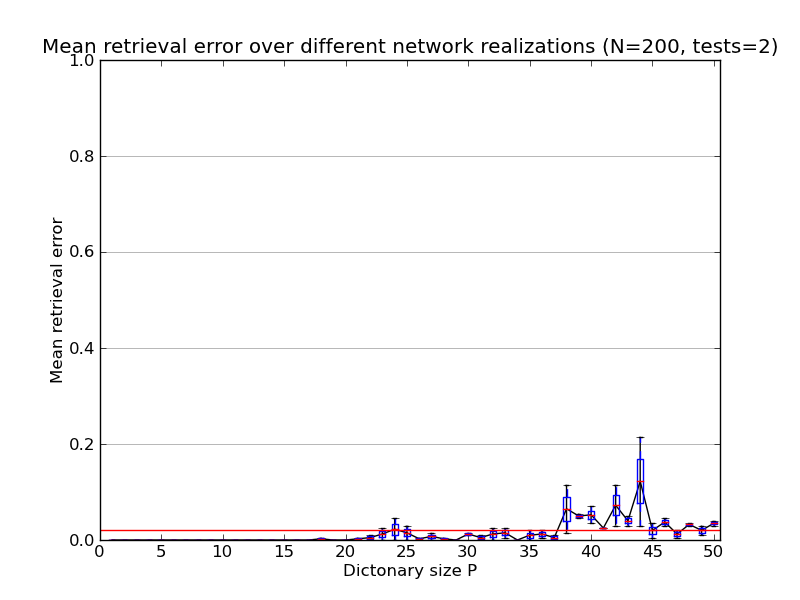
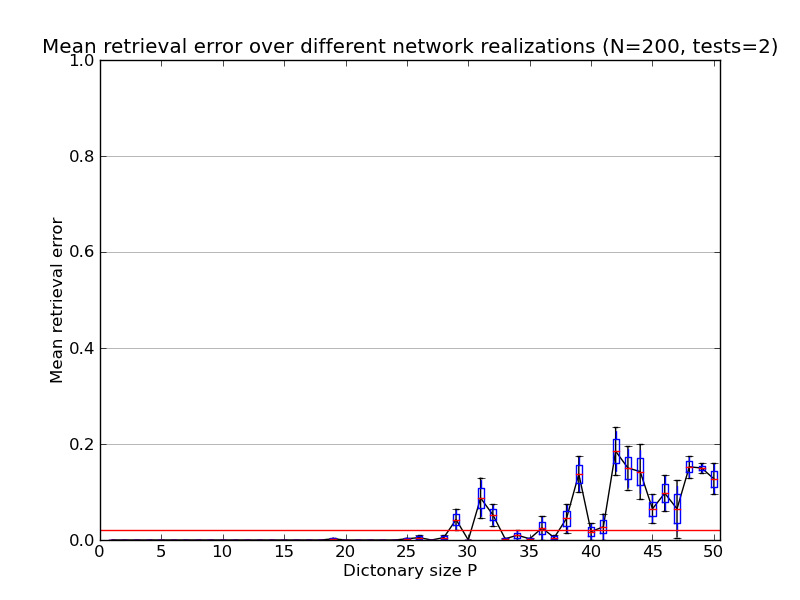
enjoy

Changed region(s): [[0.4375, 0.72, 0.9062, 0.9]]

diff --git a/src/Hopfield.py b/src/Hopfield.py
@@ -6,27 +6,22 @@ from time import sleep, strftime
 tmax = 3
 
 class HopfieldNetwork:
-    def __init__(self,N):
-        self.N = N
+    def __init__(self):
         """
             DEFINITION
             initialization of the class
-
-            INPUT
-            N: size of the network, i.e. if N=10 
-            it will consists of 10 pixels
 
         """
 
     def create_pattern(self,P=5,ratio=0.5):
         """
             DEFINITION
-            creates P patterns where the ratio of -1 to 1 
+            creates P patterns where the ratio of 1 to total 
             pixels is "ratio"
             
             INPUt
             P: Number of patterns
-            ratio: ratio of 1/-1 pixels
+            ratio: ratio of 1/to pixels
         """
             
         self.P = P
@@ -107,8 +102,9 @@ class HopfieldNetwork:
     def normalized_pixel_distance(self,mu=0):
         return (1-self.overlap(mu))/2
     
-    def run(self,P=5, ratio=0.5, mu=0, flip_ratio=0.2, pcut=0, bPlot=True, bDebug=False):
-                
+    def run(self, N=200, P=5, ratio=0.5, mu=0, flip_ratio=0.2, pcut=0, bPlot=True, bDebug=False):
+        
+        self.N=N
         self.create_pattern(P, ratio)
         self.calc_weight()
         self.set_init_state(mu,flip_ratio)
@@ -123,38 +119,7 @@ class HopfieldNetwork:
         energy = [self.energy()]
         normalized_pixel_distance = [self.normalized_pixel_distance()]
 
-        if bPlot:
-            # prepare the figure
-            figure(num=None, figsize=(8, 10), dpi=80, facecolor='w', edgecolor='k')
-    
-            # plot the time course of the energy
-            subplot(311)
-            g1, = plot(t,energy,'b',lw=2)
-            axis([0,tmax,-self.N*5,0])
-            xlabel('time step')
-            ylabel('energy')
-            grid('on')
-        
-            # plot the time course of the overlap
-            subplot(312)
-            g2, = plot(t,overlap,'b',lw=2) # we keep a handle to the curve
-            axis([0,tmax,-1,1])
-            xlabel('time step')
-            ylabel('overlap')
-            grid('on')
-        
-            # plot the time course of the normalized pixel distance
-            subplot(313)
-            g3, = plot(t,normalized_pixel_distance,'b',lw=2) # we keep a handle to the curve
-            axis([0,tmax,0,1])
-            xlabel('time step')
-            ylabel('normalized pixel distance')
-            grid('on')
-            
-        
-            # this forces pylab to update and show the fig.
-            draw()
-        
+                
         x_old = copy(self.x)
         
         for i in range(tmax):
@@ -169,22 +134,47 @@ class HopfieldNetwork:
                 t.append(i+divide(s,float(self.N)))
                 s+=1
             
-            if bPlot:
-                # update the plotted data
-                g1.set_data(t,energy)
-                g2.set_data(t,overlap)
-                g3.set_data(t,normalized_pixel_distance)    
-
-            
-                # update the figure so that we see the changes
-                draw()
-            
             # check the exit condition
             i_fin = i+1
             if sum(abs(x_old-self.x))==0:
                 break
             x_old = copy(self.x)
-
+                
+        if bPlot:
+            # prepare the figure
+            figure(num=None, figsize=(7, 8), dpi=80, facecolor='w', edgecolor='k')
+    
+            # plot the time course of the energy
+            subplot(311)
+            g1, = plot(t,energy,'b',lw=2)
+            axis('auto')
+            xlim(0, 2) 
+            #xlabel('time step')
+            ylabel('energy')
+            grid('on')
+        
+            # plot the time course of the overlap
+            subplot(312)
+            g2, = plot(t,overlap,'b',lw=2) # we keep a handle to the curve
+            axis('auto')
+            xlim(0,2)
+            #xlabel('time step')
+            ylabel('overlap')
+            grid('on')
+        
+            # plot the time course of the normalized pixel distance
+            subplot(313)
+            g3, = plot(t,normalized_pixel_distance,'b',lw=2) # we keep a handle to the curve
+            axis('auto')
+            xlim(0,2)
+            xlabel('time step')
+            ylabel('normalized pixel distance')
+            grid('on')
+            
+        
+            # this forces pylab to update and show the fig.
+            draw()
+            
         #print 'pattern recovered in %i time steps with final overlap %.3f and energy %.3f'%(i_fin,overlap[-1],energy[-1])
         
         if bPlot:

diff --git a/src/exercise2.py b/src/exercise2.py
@@ -14,13 +14,13 @@ import numpy as np
         Hint: To calculate Pmax, successively add patterns and calculate the mean retrieval error over.
     '''
 def pmax(N):
-    h = HopfieldNetwork(N)
+    h = HopfieldNetwork()
     p=1
     meanerror = 0
     while meanerror <= 0.02:
         error=zeros((1,p),float)
         for r in range(p):
-            error[0,r]=(h.run(P=p+1, mu=r, flip_ratio=0.1, bPlot=False))
+            error[0,r]=(h.run(N,P=p+1, mu=r, flip_ratio=0.1, bPlot=False))
         meanerror=np.mean(error[0,:])
         p=p+1
         print p 
@@ -37,10 +37,7 @@ def exercise2(N=200,tests=10,confidence=0.95):
     pmax_mean=np.mean(pmaxval[0,:])
     load_std=np.std(loadmax)
     ci = load_std * ((1+confidence)/2)/ 10
-    #print 'results'
-    #print load_mean
-    #print load_std
-    #print h
+
     print 'The maximal load of the Hopfield Network is %.4f with a 0.95 confidence intervall of [%.4f,%.4f]. The capacity of the network is %.4f'%(load_mean,load_mean-ci,load_mean+ci,pmax_mean)        
     
 if __name__=="__main__":

diff --git a/tex/Question1.tex b/tex/Question1.tex
@@ -73,5 +73,17 @@ attempt each) is at most 2$\%$. This yields the maximal load $\alpha_{N,max} = \
 Set c=0.1. Calculate $\alpha_{N,max}$ for at least 10 network realizations and state the mean together with confidence intervals. Do this for N = 100, 250 and one other larger network size. Shortly interpret the resulting values and compare with results from literature.
 \end{itshape}
 
-
+\begin{table}
+\centering
+\begin{tabular}{|l|l|l|l|l|l|}
+\hline
+N & tests & C-level & maximal load & lower bound & upper bound \\ 
+\hline
+\hline
+100 & 10 & 95$\%$ & - & - & - \\
+250 & 10 & 95$\%$ & - & - & - \\
+500 & 10 & 95$\%$ & - & - & - \\
+\hline
+\end{tabular}
+\end{table}
 

diff --git a/src/exercise1_3.py b/src/exercise1_3.py
@@ -18,7 +18,7 @@ def exercise1_3(N=200,P=50,tests=2):
     '''
     
     print "Exercise 1.3:"
-    h = HopfieldNetwork(N)
+    h = HopfieldNetwork()
     error = zeros((P,tests),float)
     for p in range(P):
         for q in range(tests):
@@ -26,7 +26,7 @@ def exercise1_3(N=200,P=50,tests=2):
                 r = random.randint(0,p)
             else:
                 r = 0
-            error[p,q]=(h.run(P=p+1, mu=r, flip_ratio=0.1, bPlot=False))
+            error[p,q]=(h.run(N, P=p+1, mu=r, flip_ratio=0.1, bPlot=False))
     
     print error;
     max_error = max(error,axis=1)

diff --git a/tex/main.tex b/tex/main.tex
@@ -1,4 +1,4 @@
-\documentclass[paper=a4, notitlepage]{scrartcl}
+\documentclass[paper=a4, notitlepage]{article}
 \input{packages}
 
 \lstset{numbers=left, numberstyle=\tiny,numbersep=5pt} 
@@ -43,6 +43,7 @@ Vince Moens \\
 \newpage
 
 \input{Introduction}
+\input{Question1}
 
 \newpage
 

diff --git a/src/exercise1_1.py b/src/exercise1_1.py
@@ -10,8 +10,8 @@ def exercise1_1():
     '''
     
     print "Exercise 1.1:"
-    h = HopfieldNetwork(N=200)
-    h.run(P=5, flip_ratio=0.2)
+    h = HopfieldNetwork()
+    h.run(N=200, P=5, flip_ratio=0.2)
 
 if __name__=="__main__":
     exercise1_1()
